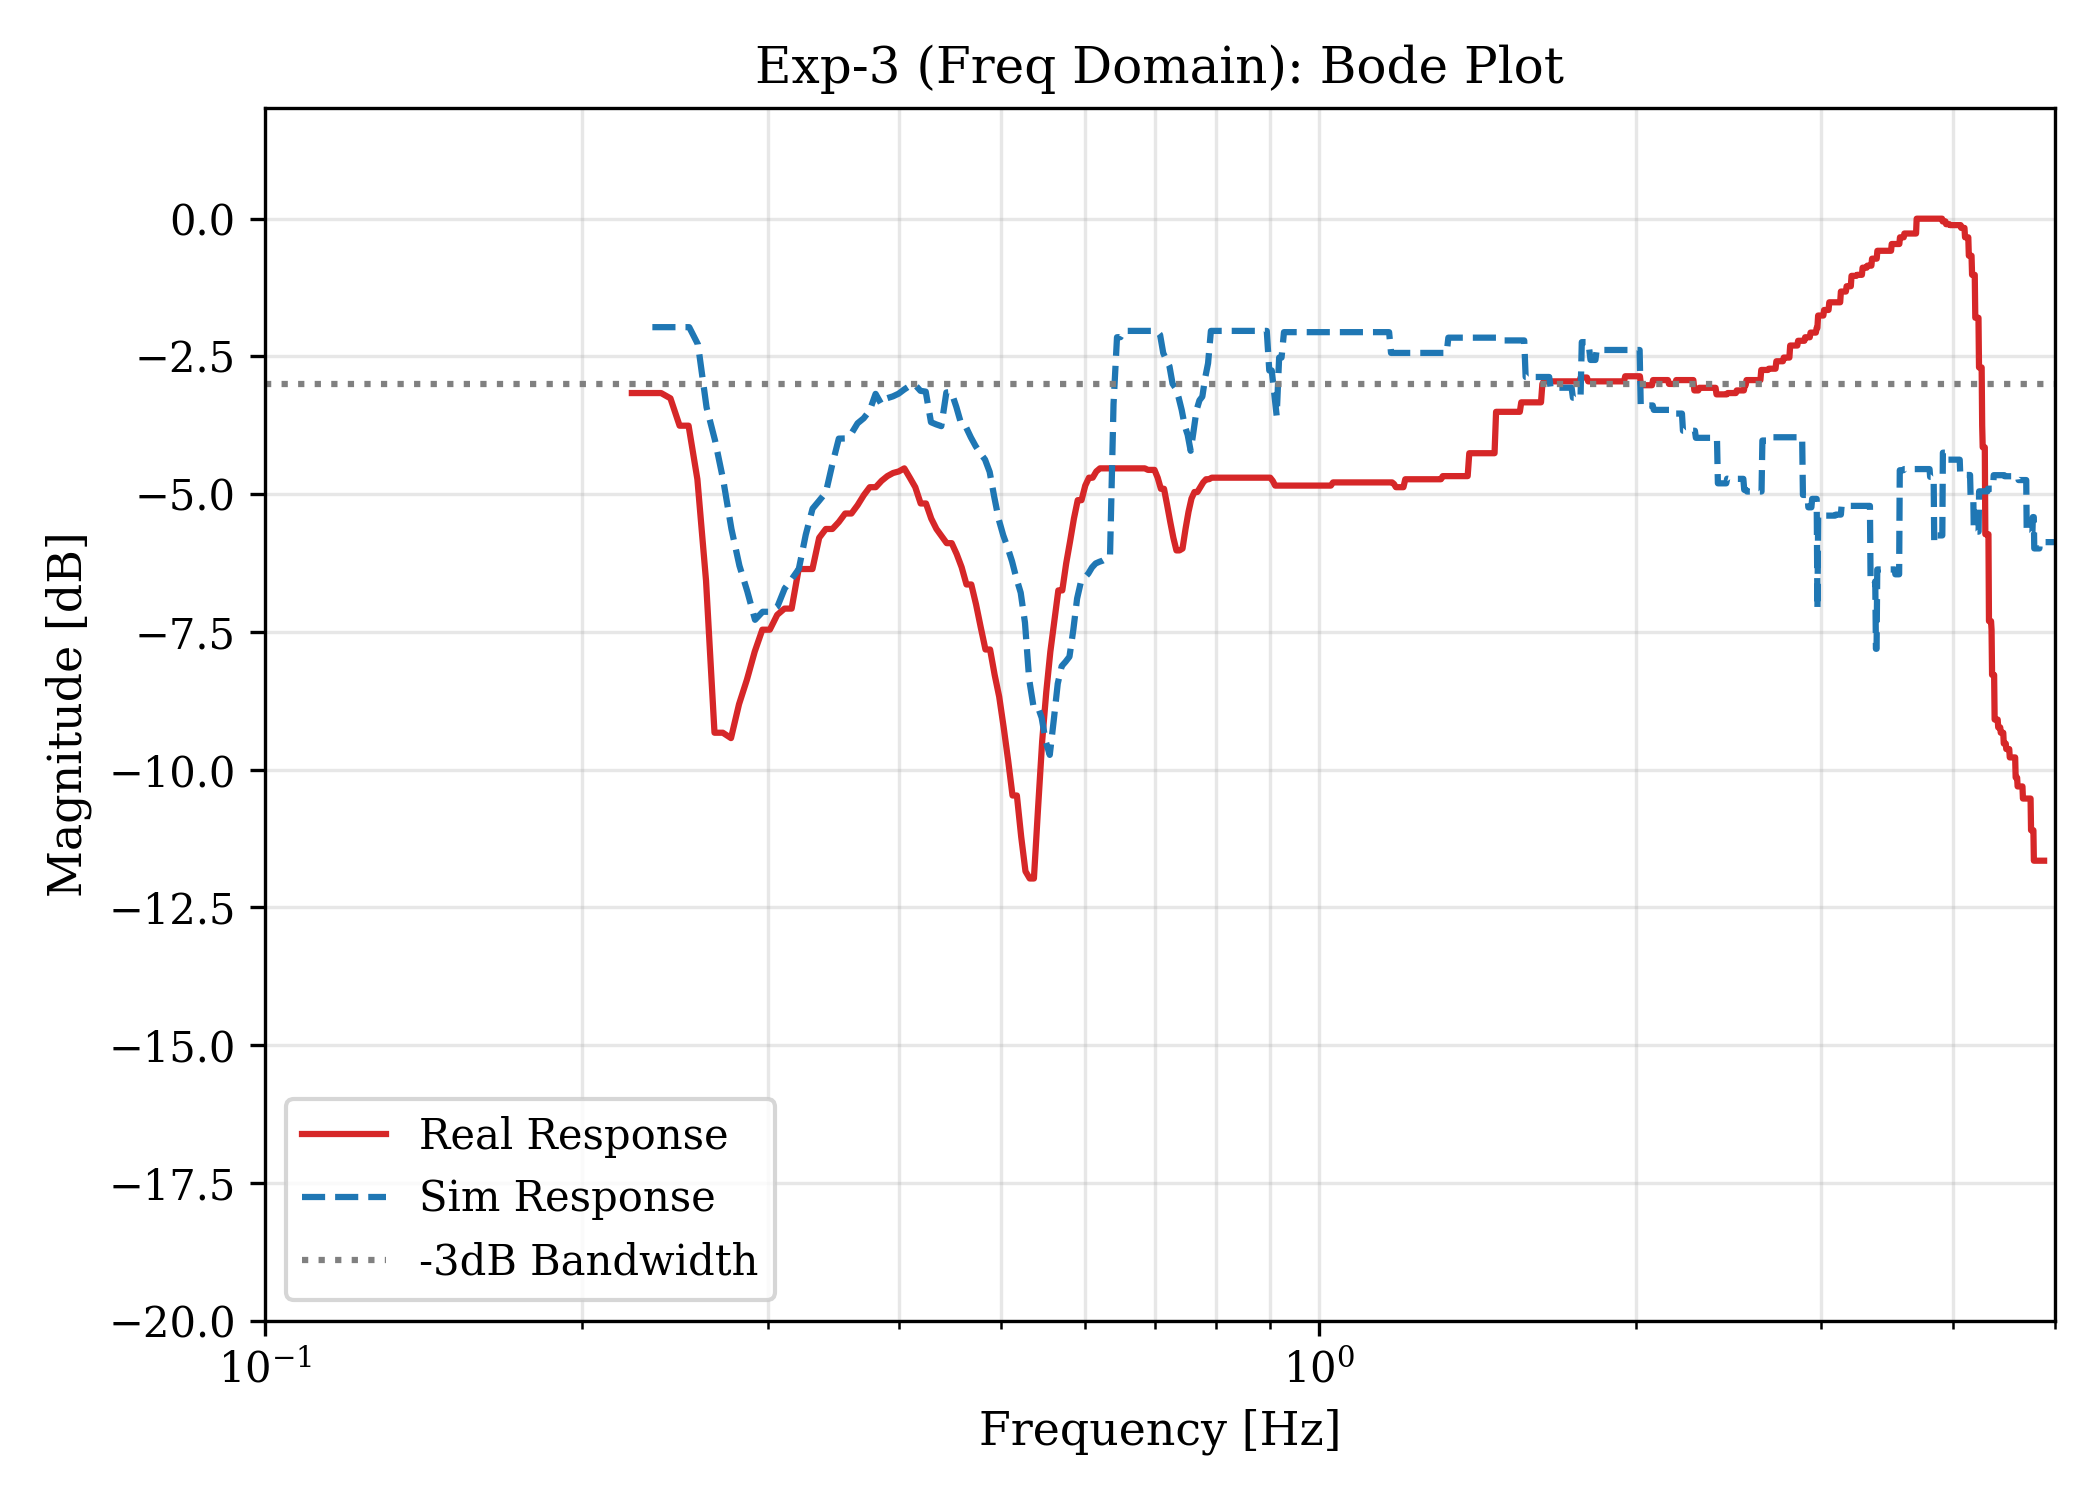
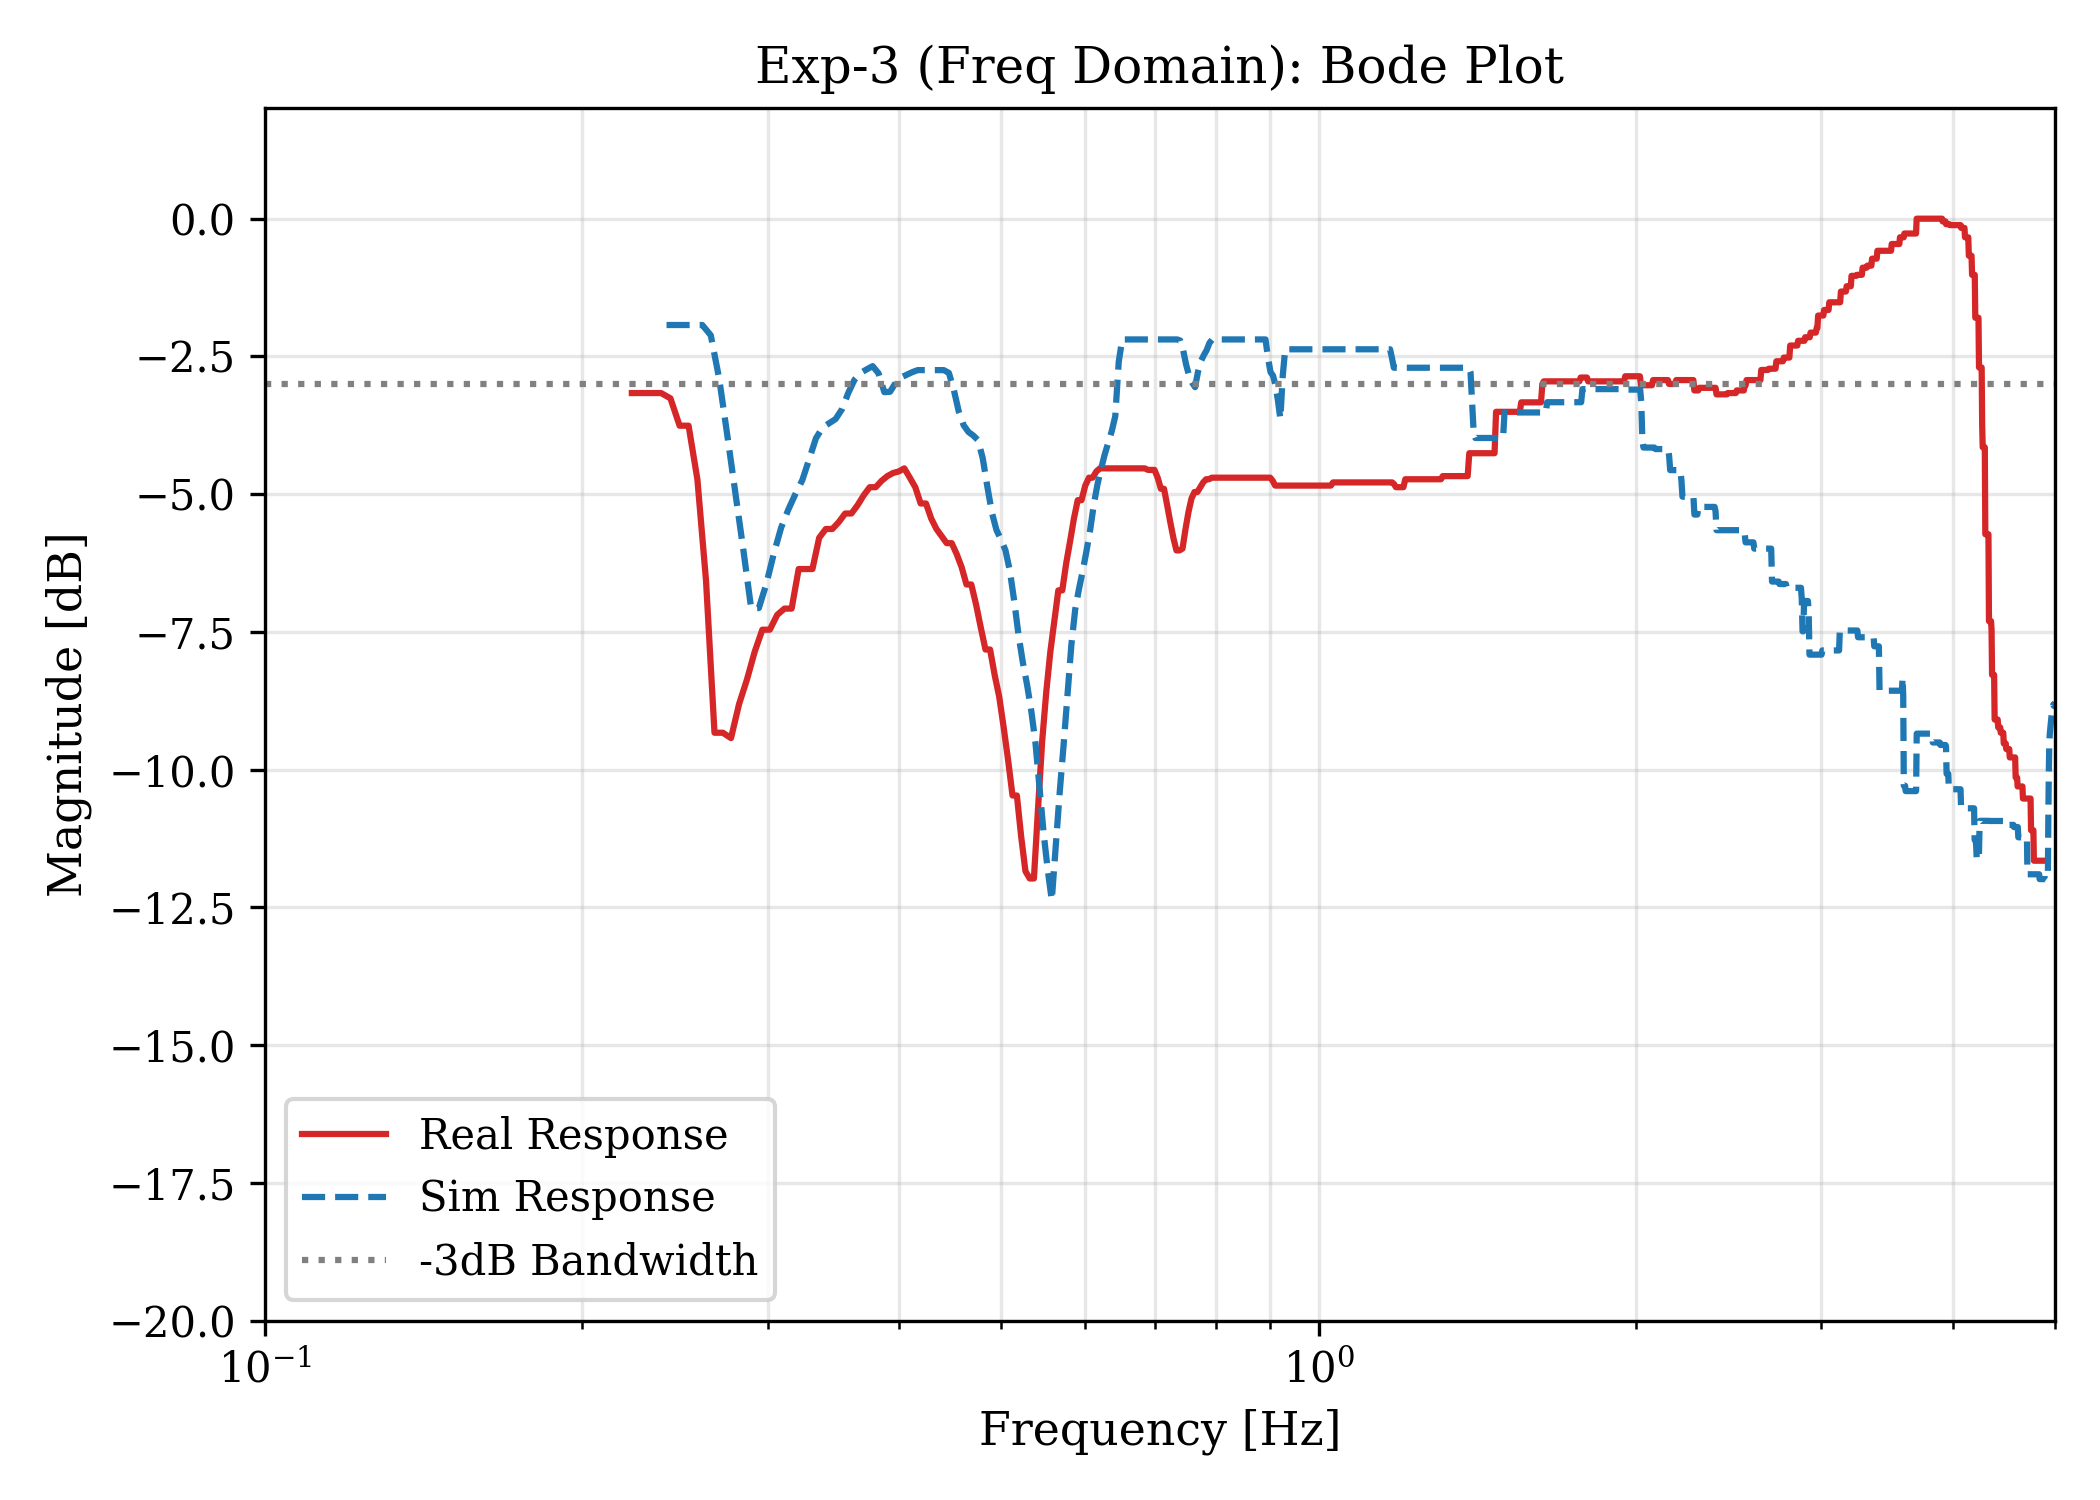
ヒステリシス同定

diff --git a/source/porcaro_rl/porcaro_rl/tasks/direct/porcaro_rlv1/actions/torque.py b/source/porcaro_rl/porcaro_rl/tasks/direct/porcaro_rlv1/actions/torque.py
@@ -26,20 +26,20 @@ class TorqueActionController(ActionController):
                  N: float = 630.0,
                  # ▼▼▼ 推奨パラメータ (振動防止版) ▼▼▼
                  pam_viscosity: float = 0.0,      # 少し強めの粘性で安定化
-                 pam_hys_const: float = 60.0,      # 基礎摩擦
-                 pam_hys_coef_p: float = 200.0,     # 圧力依存摩擦
+                 pam_hys_const: float = 5,#60.0,      # 基礎摩擦
+                 pam_hys_coef_p: float = 30,#200.0,     # 圧力依存摩擦
                  # ▲▲▲▲▲▲▲▲▲▲▲▲▲▲▲▲▲▲▲▲▲▲▲▲▲
                  force_map_csv: str | None = None,
                  force_scale: float = 1.0,
                  h0_map_csv: str | None = None,
                  use_pressure_dependent_tau: bool = True,
                  geometric_cfg: PamGeometricCfg | None = None,
-                 transition_width: float = 0.01,
+                 transition_width: float = 0.001,
                  pressure_shrink_gain: float = 0.0,
                  # [NEW] シンプルな感度設定のみ
                  pam_p_dot_scale: float = 0.5,
                  pam_contract_gain: float = 1.0,  # 収縮: 少し弱める
-                 pam_extend_gain: float = -0.4,    # 伸長: 強める (落下防止)
+                 pam_extend_gain: float = 0.0,    # 伸長: 強める (落下防止)
                  pam_tau_scale_range: tuple[float, float] = (1.0, 1.0),
                  ):    # 感度は控えめに
 

diff --git a/source/porcaro_rl/porcaro_rl/tasks/direct/porcaro_rlv1/porcaro_rl_env_cfg.py b/source/porcaro_rl/porcaro_rl/tasks/direct/porcaro_rlv1/porcaro_rl_env_cfg.py
@@ -38,7 +38,7 @@ class PorcaroRLEnvCfg(DirectRLEnvCfg):
     """Porcaro 環境用の設定クラス (基本構成 - DRなし)"""
 
     # --- RL 設定 ---
-    decimation: int = 10 
+    decimation: int = 4#10 
     
     # [変更]: 4小節構造 (BPM60時) に耐えられるよう十分な長さを確保
     # 実際のエピソード終了は BPM に基づき動的に判定されます
@@ -46,7 +46,7 @@ class PorcaroRLEnvCfg(DirectRLEnvCfg):
     
     # --- シミュレーション設定 ---
     sim: SimulationCfg = SimulationCfg(
-        dt=1 / 500,     # 1ms
+        dt=1 / 200,#500,     # 1ms
         render_interval=decimation, # ここは絶対に変えてはいけない
         physics_material=sim_utils.RigidBodyMaterialCfg(
             static_friction=0.0, dynamic_friction=0.0, restitution=0.0, # restitutionは０

diff --git a/source/porcaro_rl/porcaro_rl/tasks/direct/porcaro_rlv1/cfg/assets.py b/source/porcaro_rl/porcaro_rl/tasks/direct/porcaro_rlv1/cfg/assets.py
@@ -125,15 +125,15 @@ ROBOT_CFG = ArticulationCfg(
     actuators={
         "wrist": ImplicitActuatorCfg(
             joint_names_expr=[".*Base_link_Wrist_joint"],
-            stiffness=0.01,
-            damping=0.08,
+            stiffness=0.0,
+            damping=0.1,
             effort_limit_sim=500.0,
             friction=0.001,
         ),
         "grip": ImplicitActuatorCfg(
             joint_names_expr=[".*Hand_link_Grip_joint"],
-            stiffness=0.01,
-            damping=0.08,
+            stiffness=0.0,
+            damping=0.1,
             effort_limit_sim=500.0,
             friction=0.001,
         ),

diff --git a/source/porcaro_rl/porcaro_rl/tasks/direct/porcaro_rlv1/cfg/controller_cfg.py b/source/porcaro_rl/porcaro_rl/tasks/direct/porcaro_rlv1/cfg/controller_cfg.py
@@ -21,6 +21,6 @@ class TorqueControllerCfg:
     N: float = 630.0 # 簡易式 Fpam_quasi_static 用 (CSVがあれば不要)
     pam_viscosity: float = 0.0
     force_map_csv: str = FORCE_MAP_CSV
-    force_scale: float = 1.0
+    force_scale: float = 0.3
     h0_map_csv: str = H0_MAP_CSV
     use_pressure_dependent_tau: bool = True

diff --git a/source/porcaro_rl/porcaro_rl/tasks/direct/porcaro_rlv1/actions/pam.py b/source/porcaro_rl/porcaro_rl/tasks/direct/porcaro_rlv1/actions/pam.py
@@ -212,7 +212,7 @@ def calculate_simple_latched_friction(
 
     # 3. 摩擦の方向決定 (Direction Logic)
     v_virtual = torch.clamp(p_dot * p_dot_scale, min=-1.0, max=1.0) 
-    v_effective = h_dot + v_virtual
+    v_effective = v_virtual
 
     # 方向算出
     current_dir = torch.tanh(v_effective / tanh_width)
